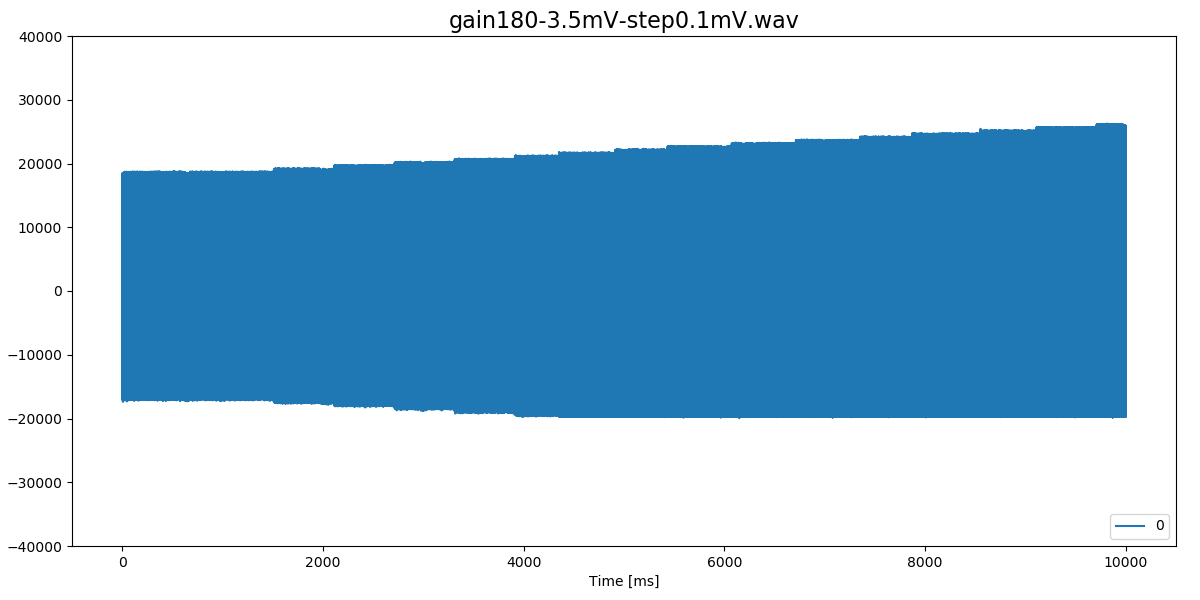
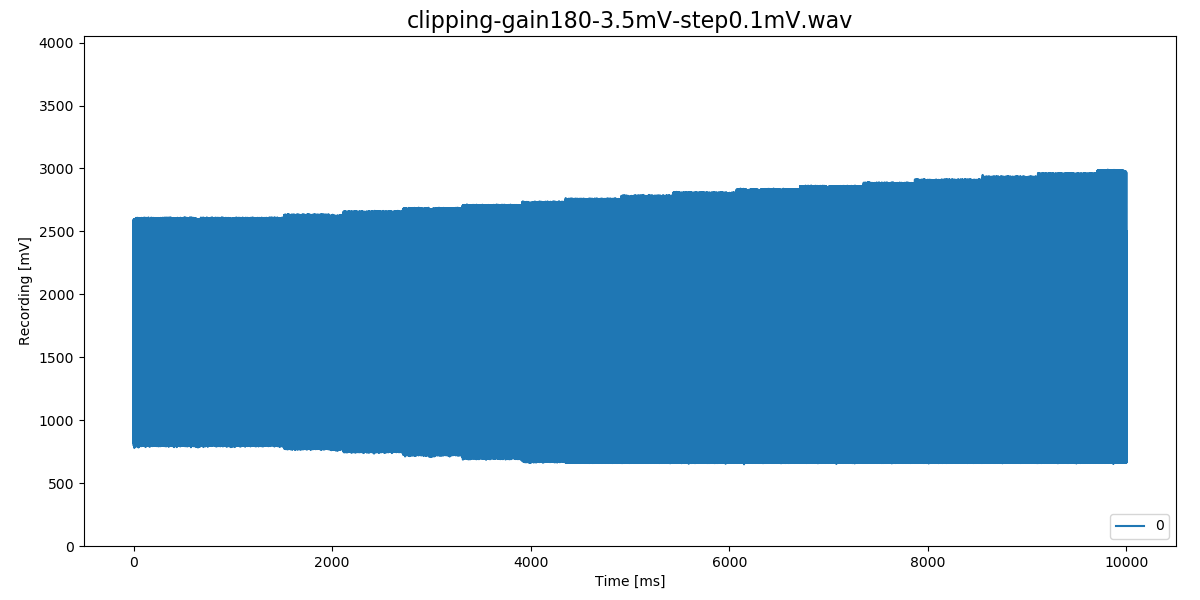
improved clipping plots

diff --git a/R1.0/README.md b/R1.0/README.md
@@ -145,7 +145,8 @@ To be done.
 
 In files [`tests/clipping-gain*-*mV-step*mV.wav`](tests) the amplitude
 of a 630Hz signal was increased from a start voltage in steps as
-specified in the file name.
+specified in the file name. Shown is the voltage as the Teensy records
+it (0-3.3V).
 
 ![clipping gain5](images/clipping-gain5-100mV-step10mV-traces.png)
 
@@ -155,12 +156,13 @@ specified in the file name.
 
 These plots were generated via
 ```
-python3 ~/Arduino/libraries/TeeRec/extras/viewwave.py -s -c 0 -t 10 ../tests/clipping-gain30-20mV-step1mV.wav
+python3 ~/Arduino/libraries/TeeRec/extras/viewwave.py -s -c 0 -t 10 -r -g 1 ../tests/clipping-gain30-20mV-step1mV.wav
 ```
 
-*The signals are clipped at the bottom!* This looks the same for all
-channels and gains. Also, it does not matter whether the amplifier is
-powered by 5V or 3.3V. Why?
+*The signals are clipped at the bottom at about 680mV!*
+
+This is independent on gain. Also, it does not matter whether the
+amplifier is powered by 5V or 3.3V.
 
 
 ## Power consumption
